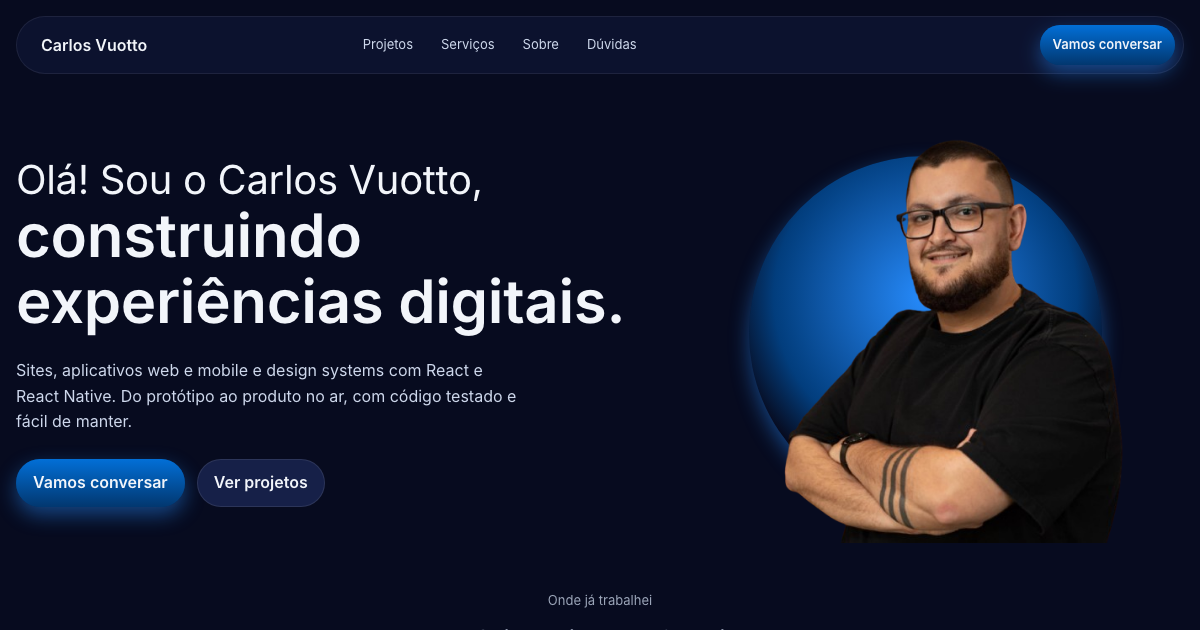
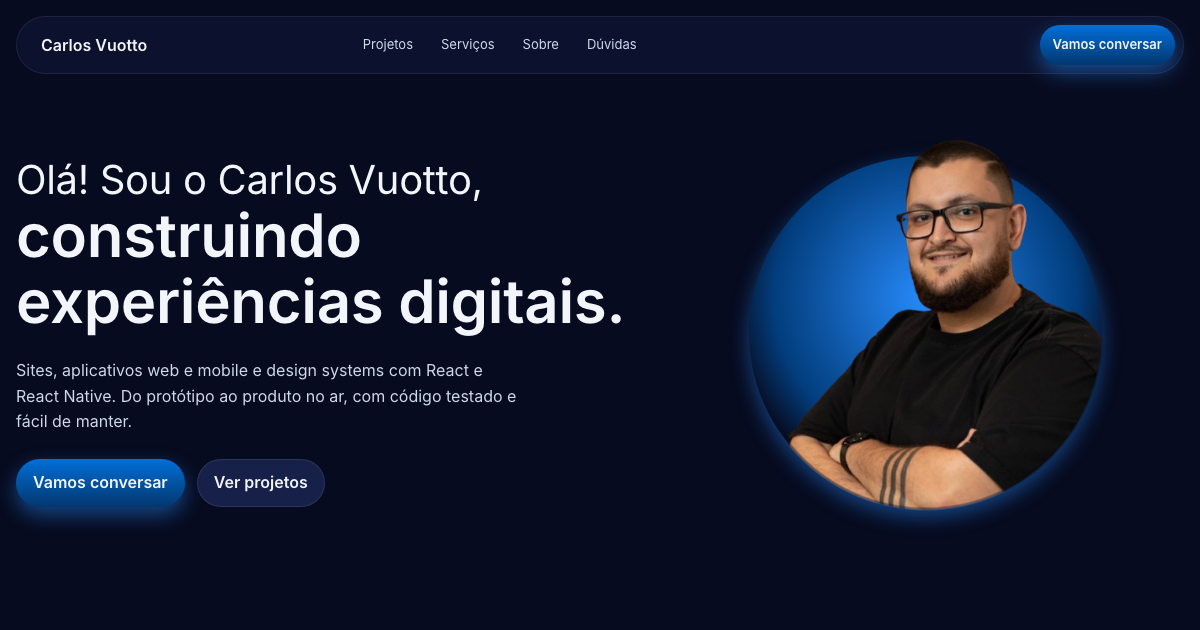
fix(portfolio): foto acompanha o círculo embaixo, sem corte reto

Changed region(s): [[0.6475, 0.5429, 0.925, 0.8746], [0.4625, 0.9349, 0.555, 0.9651]]

diff --git a/apps/web/portfolio/src/components/PhotoFrame.tsx b/apps/web/portfolio/src/components/PhotoFrame.tsx
@@ -1,3 +1,8 @@
+const CIRCLE_WITH_OPEN_TOP = [
+  'radial-gradient(circle closest-side at 50% 50%, black 83%, transparent 85%)',
+  'linear-gradient(to bottom, black 32%, transparent 44%)',
+].join(', ');
+
 interface PhotoFrameProps {
   src: string;
   alt: string;
@@ -38,6 +43,8 @@ export function PhotoFrame({ src, alt, size }: PhotoFrameProps) {
             height: '100%',
             objectFit: 'contain',
             objectPosition: 'bottom',
+            maskImage: CIRCLE_WITH_OPEN_TOP,
+            WebkitMaskImage: CIRCLE_WITH_OPEN_TOP,
           }}
         />
       ) : (

diff --git a/apps/web/portfolio/src/components/PhotoFrame.test.tsx b/apps/web/portfolio/src/components/PhotoFrame.test.tsx
@@ -36,4 +36,12 @@ describe('PhotoFrame', () => {
     expect(frame.style.maxWidth).toBe('100%');
     expect(frame.style.aspectRatio).toBe('1 / 1');
   });
+
+  it('rounds off the bottom of the photo along the circle, letting the head rise above it', () => {
+    render(<PhotoFrame src="/carlos.png" alt="Carlos Vuotto" size={320} />);
+    const mask = screen.getByRole('img').style.getPropertyValue('mask-image');
+
+    expect(mask).toContain('radial-gradient(circle closest-side');
+    expect(mask).toContain('linear-gradient(to bottom');
+  });
 });
